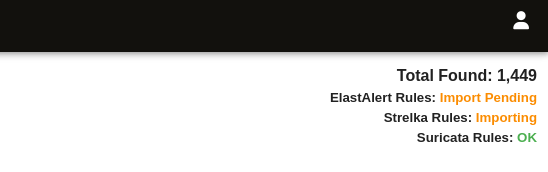
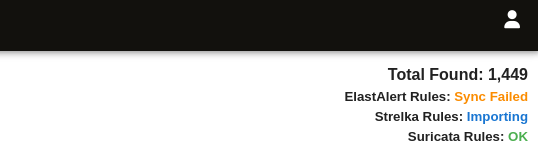
add documentation for detection status display

diff --git a/detections.rst b/detections.rst
@@ -19,25 +19,26 @@ Starting in Security Onion 2.4.70, :ref:`soc` includes our Detections interface 
 Options
 -------
 
-Starting at the top of the main Detections page, the Options menu allows you to synchronize a particular detection engine such as :ref:`suricata`, :ref:`strelka`, or :ref:`elastalert`. Once you've selected the detection engine that you want to synchronize, you can then click either the ``DIFFERENTIAL UPDATE`` or ``FULL UPDATE`` button. The differential update is a lightweight sync that will skip the thorough sync and comparison of each individual rule. For example, with Suricata it will compute and compare the hash of the source rule list with the hash of the deployed rules, and only if there's a mismatch will it perform the full sync. A full sync can involve inspecting and comparing individual rules, of which there can be thousands. This more thorough sync can take much longer than the differential sync. Note that each engine has its own unique synchronization process.
+Starting at the top of the main Detections page, the Options menu allows you to synchronize a particular detection engine such as :ref:`suricata`, :ref:`strelka`, or :ref:`elastalert`. Once you've selected the detection engine that you want to synchronize, you can then click either the ``DIFFERENTIAL UPDATE`` or ``FULL UPDATE`` button. 
+
+The differential update is a lightweight sync that will skip the thorough sync and comparison of each individual rule. For example, with Suricata it will compute and compare the hash of the source rule list with the hash of the deployed rules, and only if there's a mismatch will it perform the full sync. A full sync can involve inspecting and comparing individual rules, of which there can be thousands. This more thorough sync can take much longer than the differential sync. Note that each engine has its own unique synchronization process.
 
 To the right of the Options menu is a count of detections that matched the search query. Underneath the count is a status indicator for the detection engines. The status can show whether a sync is in process, as well as whether the engine has detected errors. 
 
 .. image:: images/detections_status.png
   :target: _images/detections_status.png
 
-Below is a list of statuses and their meaning.
+Below is a list of statuses and associated explanations.
 
-- *Pending*: The browser is waiting for the server to send an initial status report.
-- *Pending Import*: The import will start once the system stabilizes, usually within twenty minutes.
-- *Importing*: The previous version of Security Onion's rules are being imported into the new Detections system. This can take a an hour or more on some systems.
-- *Import Failed*: A failure occurred during the import process.
-- *Migrating*: Rules will be migrated between Security Onion versions following system upgrades. This can take some time if upgrading from a much older version.
-- *Migration Failure*: A failure occurred during the migration. The migration will stop on the first error and will not attempt to migrate to newer versions until the issue is resolved.
-- *Synchronizing*: A rule synchronization is in progress. This occurs daily, to ensure the Security Onion grid has the latest rules. 
-- *Sync Failed*: A failure occurred during the synchronization. The next sync will retry within a few minutes, in case of a temporary network issue.
-- *Rule Mismatch*: An integrity check process detected a mismatch between the deployed rules and the enabled rules. 
-- *OK*: No known issues with the rule engine.
+- **Pending**: The browser is waiting for the server to send an initial status report.
+- **Import Pending**: The import will start once the system stabilizes, usually within twenty minutes. Imports take place only once, after upgrading to Security Onion 2.4.70+.
+- **Importing**: The previous version of Security Onion's rules are being imported into the new Detections system. This can take a an hour or more on some systems.
+- **Migrating**: Rules will be migrated between Security Onion versions following system upgrades. This can take some time if upgrading from a much older version.
+- **Migration Failed**: A failure occurred during the migration. The migration will stop on the first error and will not attempt to migrate to newer versions until the issue is resolved.
+- **Synchronizing**: A rule synchronization is in progress. This occurs daily, to ensure the Security Onion grid has the latest rules. 
+- **Sync Failed**: A failure occurred during the synchronization procedure. The next sync will retry within a few minutes.
+- **Rule Mismatch**: An integrity check process detected a mismatch between the deployed rules and the enabled rules. The SOC log will note the specific mismatched rules.
+- **OK**: No known issues with the rule engine.
 
 Clicking the status text will navigate to the Hunt page and attempt to find related logs.
 
